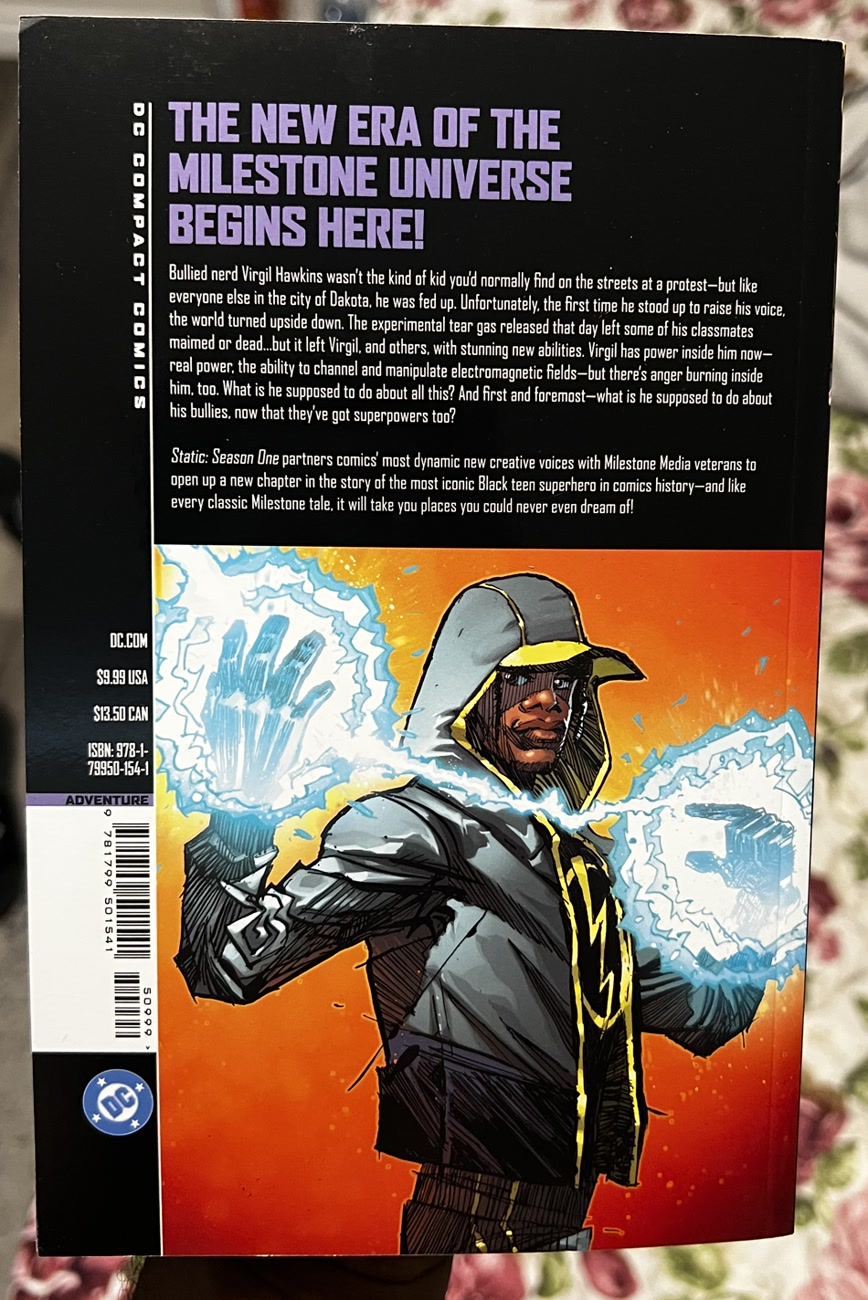
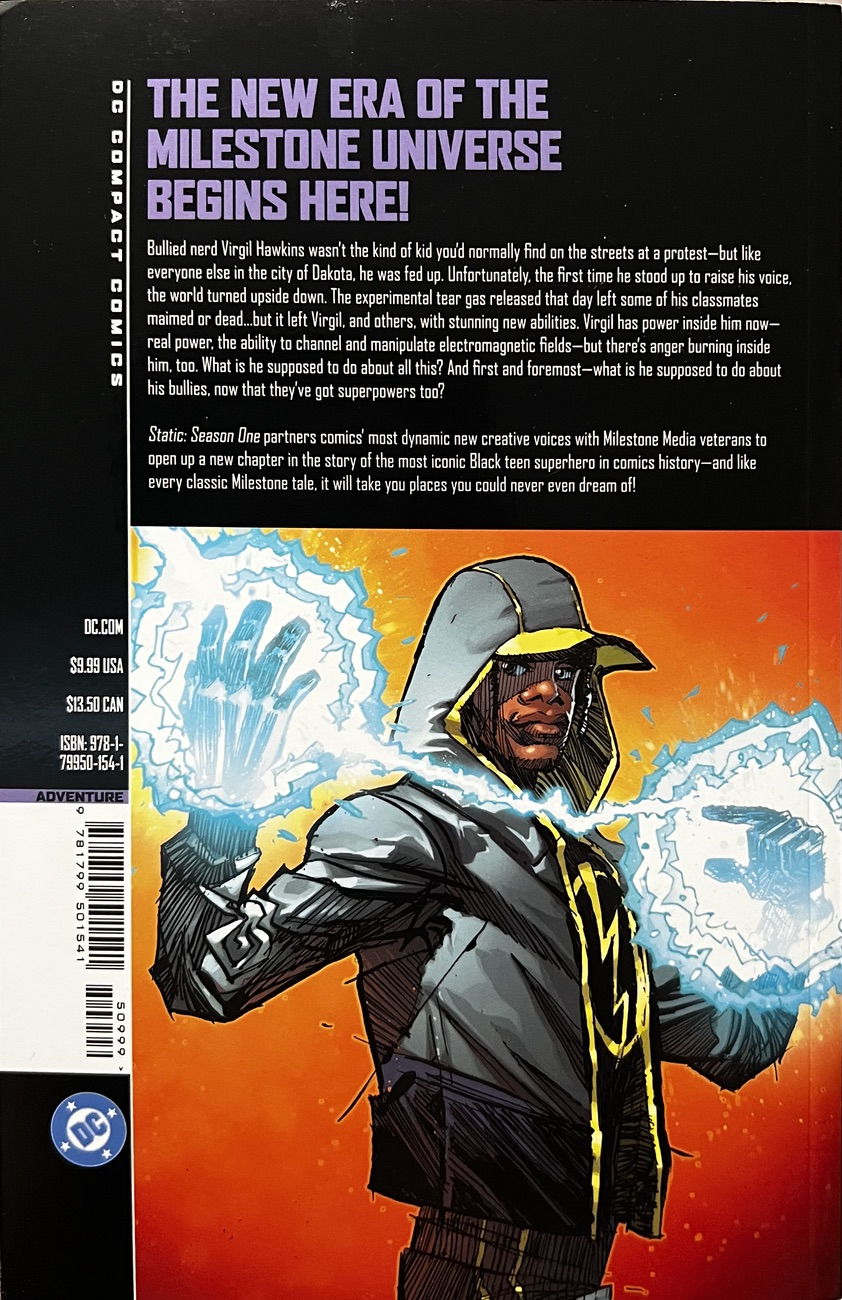
fix(compacts): straighten and crop the paperback photographs
The previous crops kept bedspread around every face and left the books at
a slant, relying on approximate quads to hide it.

- Perspective-correct each front and back from its four measured corners
  to the 5.5 x 8.5 in trim (842 x 1300 px), and each spine to its printed
  face (112 x 2048 and 102 x 2048 px), from the original iPhone photos
- Use full-frame quads now that the images are already rectified
- Set thickness from the straightened spines: Static 0.46 in, Green
  Arrow 0.42 in (approximate)
- Bump comics.js, compacts-display.js and main.js versions

diff --git a/off-the-clock/comics.js b/off-the-clock/comics.js
@@ -1235,25 +1235,25 @@ export const compacts = [
   {
     id: 'static-season-one', format: 'compact-paperback', title: 'Static: Season One',
     series: 'DC Compact Comics', publisher: 'DC Comics', year: 2025, pageCount: 184,
-    physicalSizeInches: [5.5, 8.5], thicknessInches: 0.52,
-    thicknessBasis: 'Approximate from photographed spine width relative to its height; perspective and cover edges make this uncertain.',
+    physicalSizeInches: [5.5, 8.5], thicknessInches: 0.46,
+    thicknessBasis: 'Approximate: measured from the straightened spine photograph (spine width over its 8.5 in height); retailer listings vary.',
     source: 'https://www.penguinrandomhouse.com/books/773606/static-season-one-dc-compact-comics-edition-by-vita-ayala/',
     front: './assets/compacts/static-season-one-front.jpg', back: './assets/compacts/static-season-one-back.jpg', spine: './assets/compacts/static-season-one-spine.jpg',
-    frontQuad: [[.023232,.020270],[.972727,.010811],[.929293,.979730],[.030303,.966216]],
-    backQuad: [[.021053,.012632],[.973684,.028070],[.915789,.971930],[.042105,.982456]],
-    spineQuad: [[.125714,.013072],[.565714,.013072],[.851429,.983660],[.405714,.986928]],
+    frontQuad: [[0,0],[1,0],[1,1],[0,1]],
+    backQuad: [[0,0],[1,0],[1,1],[0,1]],
+    spineQuad: [[0,0],[1,0],[1,1],[0,1]],
     backImageNote: 'Photographed from my copy'
   },
   {
     id: 'green-arrow-year-one', format: 'compact-paperback', title: 'Green Arrow: Year One',
     series: 'DC Compact Comics', publisher: 'DC Comics', year: 2026, pageCount: 152,
-    physicalSizeInches: [5.5, 8.5], thicknessInches: 0.47,
-    thicknessBasis: 'Approximate from photographed spine width relative to its height; perspective and cover edges make this uncertain.',
+    physicalSizeInches: [5.5, 8.5], thicknessInches: 0.42,
+    thicknessBasis: 'Approximate: measured from the straightened spine photograph (spine width over its 8.5 in height); retailer listings vary.',
     source: 'https://www.penguinrandomhouse.com/books/811893/green-arrow-year-one-dc-compact-comics-edition-by-andy-diggle/9781799508083/',
     front: './assets/compacts/green-arrow-year-one-front.jpg', back: './assets/compacts/green-arrow-year-one-back.jpg', spine: './assets/compacts/green-arrow-year-one-spine.jpg',
-    frontQuad: [[.020619,.013699],[.938144,.013699],[.974227,.979452],[.032990,.980822]],
-    backQuad: [[.046296,.014198],[.958333,.026543],[.970370,.981481],[.016667,.986420]],
-    spineQuad: [[.113333,.012000],[.633333,.012000],[.840000,.973333],[.306667,.980000]],
+    frontQuad: [[0,0],[1,0],[1,1],[0,1]],
+    backQuad: [[0,0],[1,0],[1,1],[0,1]],
+    spineQuad: [[0,0],[1,0],[1,1],[0,1]],
     backImageNote: 'Photographed from my copy'
   }
 ];

diff --git a/off-the-clock/main.js b/off-the-clock/main.js
@@ -1,4 +1,4 @@
-import {comics} from './comics.js?v=39.0';
+import {comics} from './comics.js?v=39.1';
 import {createBox} from './model.js?v=41.0';
 import {createStickerStudio} from './sticker-studio.js?v=30.0';
 import {createRuler,mobileControlsQuery} from './ruler-control.js?v=19.0';
@@ -191,7 +191,7 @@ try{
         const style=document.createElement('link');style.rel='stylesheet';style.href='./compacts.css?v=1.0';style.dataset.compacts='';
         await new Promise((resolve,reject)=>{style.onload=resolve;style.onerror=()=>{style.remove();reject(new Error('Could not load paperback styles'));};document.head.append(style);});
       }
-      const {openCompactDisplays}=await import('./compacts-display.js?v=1.0');
+      const {openCompactDisplays}=await import('./compacts-display.js?v=1.1');
       openCompactDisplays({box,inline});
     }catch(error){console.error('Unable to prepare paperback displays',error);announce('The paperback displays could not be opened. Please try again.');}
     finally{if(!$('compact-dialog').open){button.disabled=false;switchButton.disabled=false;}}

diff --git a/off-the-clock/compacts-display.js b/off-the-clock/compacts-display.js
@@ -1,5 +1,5 @@
 import * as THREE from 'three';
-import {compacts} from './comics.js?v=39.0';
+import {compacts} from './comics.js?v=39.1';
 import {createPaperback} from './paperback.js?v=1.0';
 
 // These display studies are created only on request, after the short box paints.

diff --git a/off-the-clock/index.html b/off-the-clock/index.html
@@ -170,6 +170,6 @@
       </section>
     </div>
   </dialog>
-  <script type="module" src="./main.js?v=46.0"></script>
+  <script type="module" src="./main.js?v=46.1"></script>
 </body>
 </html>
